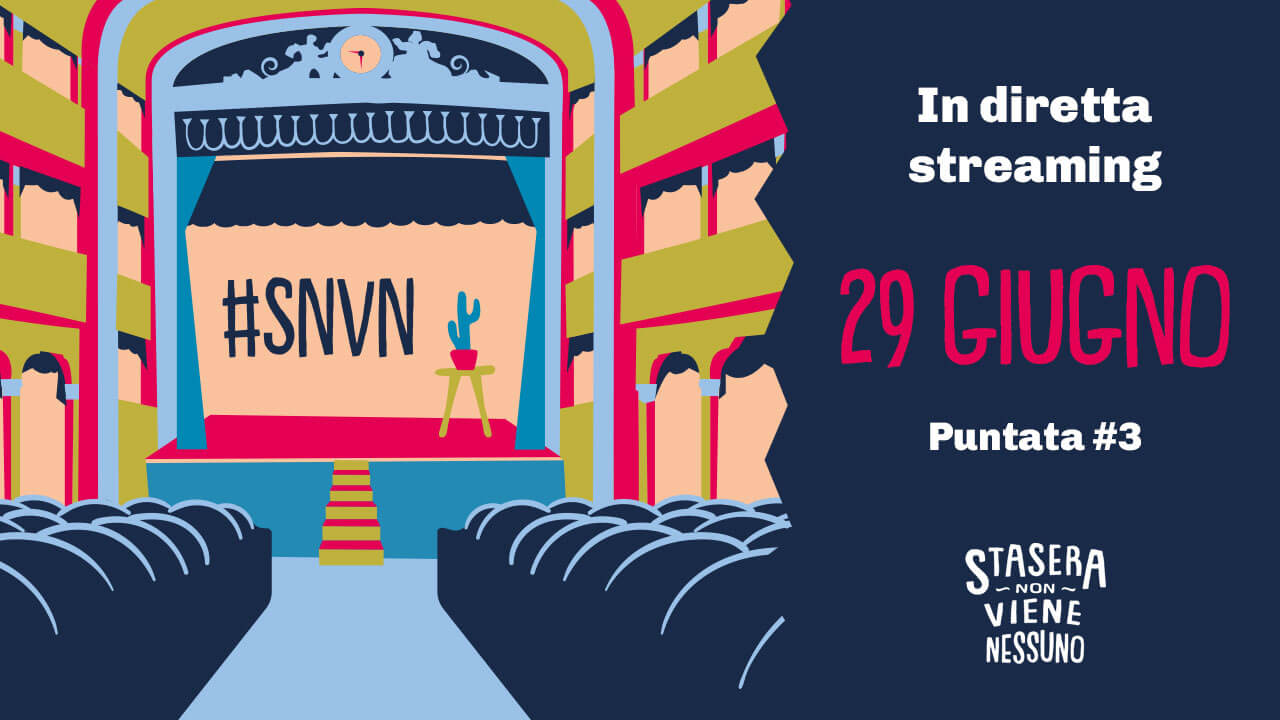
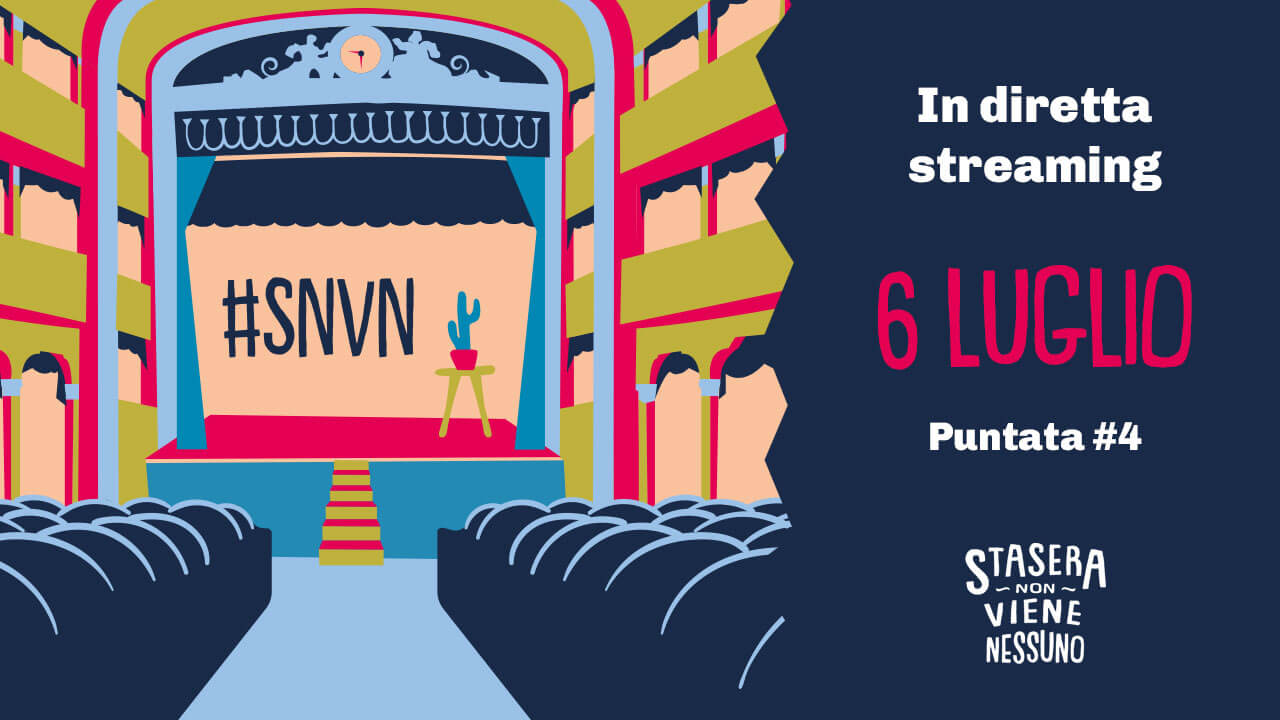
new episode

Changed region(s): [[0.6562, 0.3667, 0.9688, 0.5194], [0.875, 0.5806, 0.9062, 0.6417]]

diff --git a/index.html b/index.html
@@ -430,7 +430,7 @@ margin-top: 80px;
             </div>
             <br>
             <a onclick="UTIL.scrollTo('.secondary');" target="_blank" rel="noopener noreferrer" class="btn outline">SCOPRI IL PROGRAMMA</a>
-            <br><a style="margin-top: 20px;" href="https://youtu.be/tiVu7m7l3Qw" target="_blank" rel="noopener noreferrer" class="btn pulse">GUARDA LA DIRETTA</a>
+            <br><a style="margin-top: 20px;" href="https://youtu.be/7gQLDEbtSB4" target="_blank" rel="noopener noreferrer" class="btn pulse">GUARDA LA DIRETTA</a>
         </header>
     </section>
     <section class="secondary">
@@ -455,7 +455,7 @@ margin-top: 80px;
                 </ul>
             </li>
             <li>
-                <a href="https://youtu.be/tiVu7m7l3Qw" target="_blank" rel="noopener noreferrer" class="btn-tag">GUARDA IN DIRETTA</a>
+                <a href="https://youtu.be/tiVu7m7l3Qw" target="_blank" rel="noopener noreferrer" class="btn-tag">RIVEDI</a>
                 <span class="date">29 GIUGNO 2020</span>
                 <ul class="names">
                     <li>Mezz'ora Canonica</li>
@@ -465,7 +465,7 @@ margin-top: 80px;
                 </ul>
             </li>
             <li>
-                <!-- https://www.youtube.com/watch?v=7gQLDEbtSB4 -->
+                <a href="https://youtu.be/7gQLDEbtSB4" target="_blank" rel="noopener noreferrer" class="btn-tag">GUARDA IN DIRETTA</a>
                 <span class="date">06 LUGLIO 2020</span>
                 <ul class="names">
                     <li>Magasin du Cafè</li>
@@ -477,7 +477,7 @@ margin-top: 80px;
         </ul>
         <div class="video-container">
             <a href="https://www.youtube.com/watch?v=tiVu7m7l3Qw" target="_blank" rel="noopener noreferrer">
-                <img src="img/video-cover-play.jpg?3" style="display:inline-block; width:100%;" alt="Guarda la diretta">
+                <img src="img/video-cover-play.jpg?4" style="display:inline-block; width:100%;" alt="Guarda la diretta">
                 <div class="play-bkg"></div>
                 <div class="play-icon" style="background-image: url(img/play-icon.png);width: 100%;height: 100%;background-repeat: no-repeat;background-position: center;position: absolute;top: 0;right: 0;"></div>
             </a>
